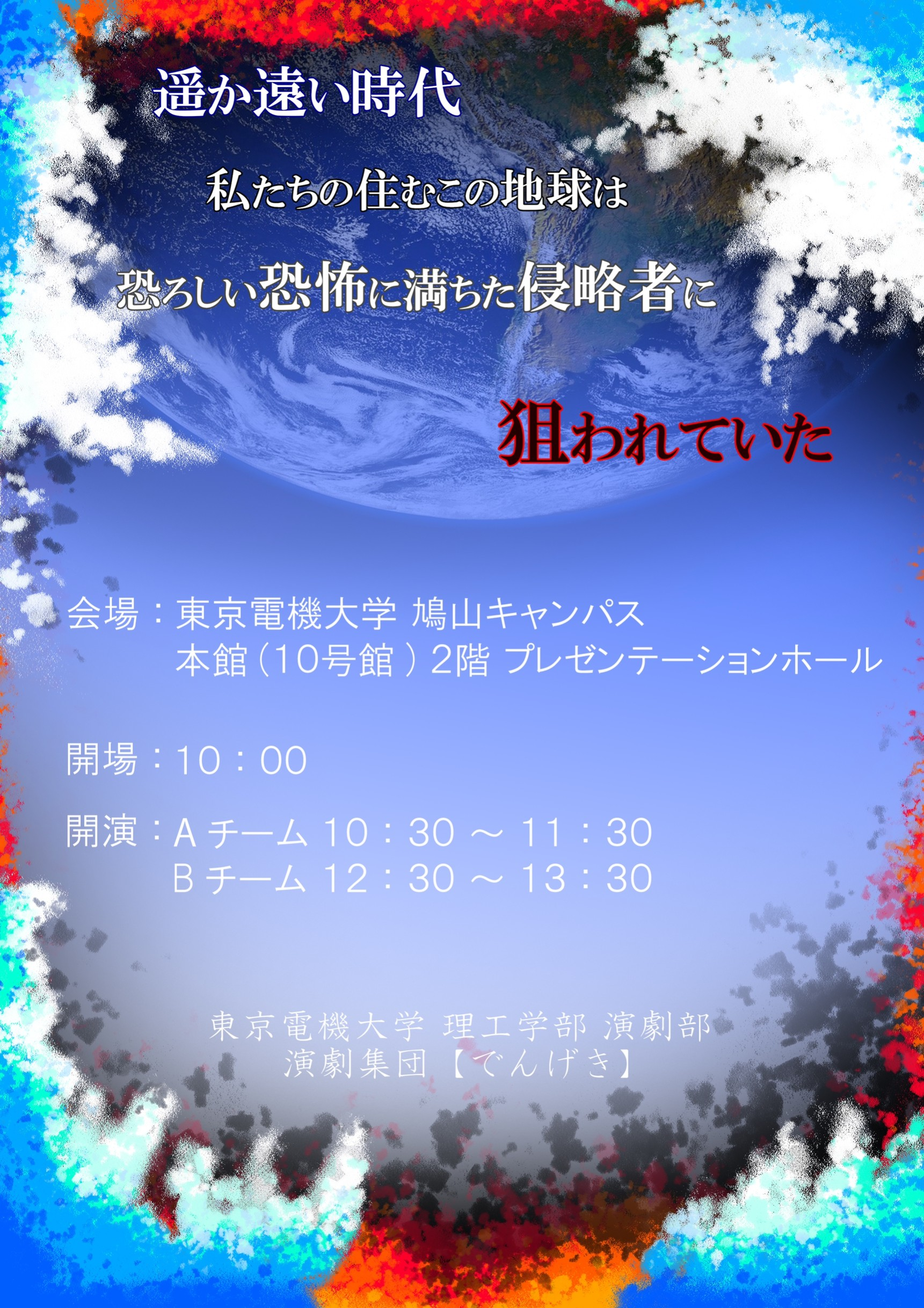
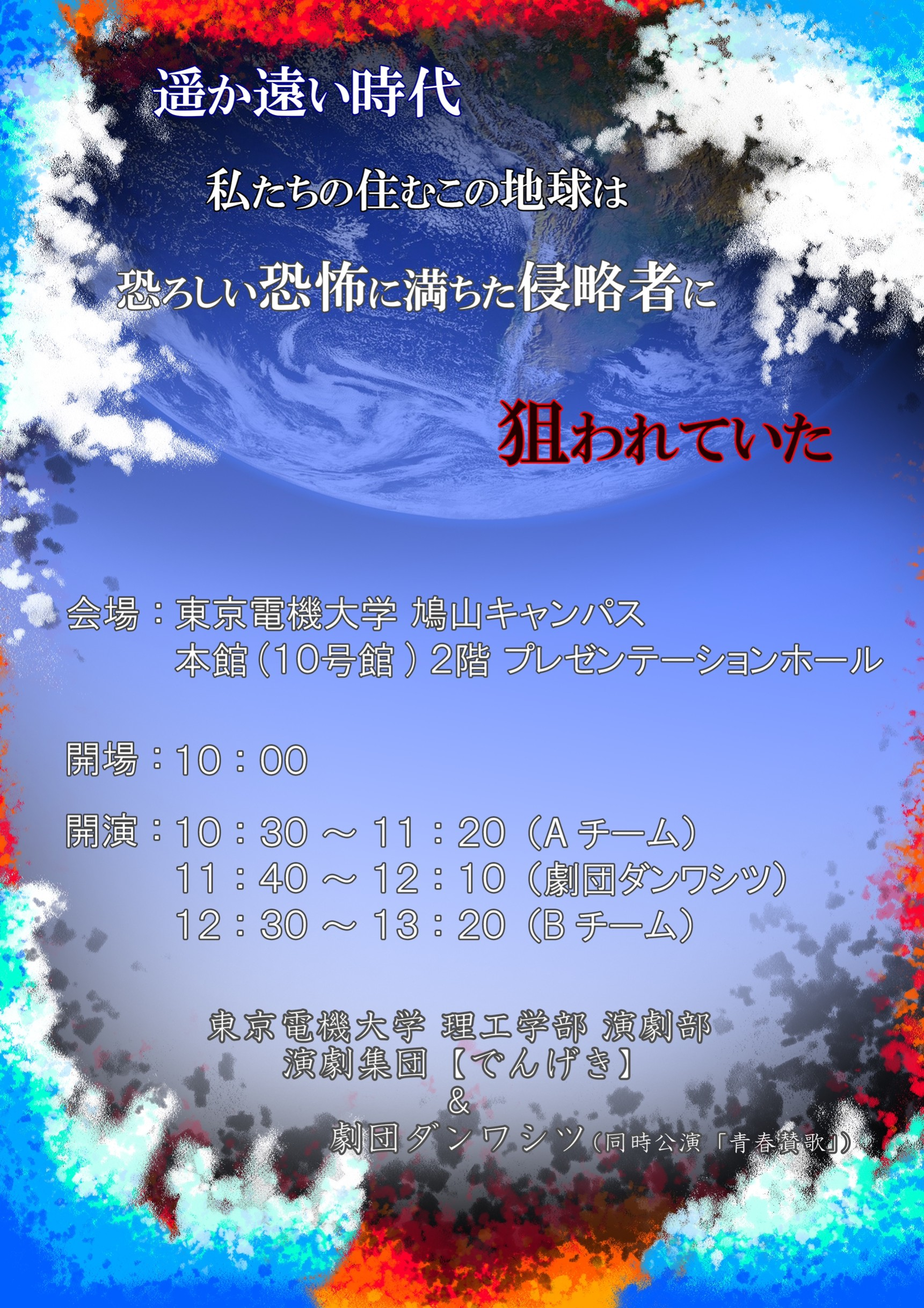
Add files via upload

diff --git a/article/kouen/2022/hatosai2022/hatosai2022.html b/article/kouen/2022/hatosai2022/hatosai2022.html
@@ -26,7 +26,7 @@
                     </h1>
                     <p class = "honbun">
                         演劇集団【でんげき】は、11/5(土)に行われる<strong>鳩山祭(1日目)</strong>にて公演を行います。<br>
-                        公演場所は、10号館2階の<strong>プレゼンテーションホール</strong>となっております。<br>
+                        公演場所は、10号館(本館)2階の<strong>プレゼンテーションホール</strong>となっております。<br>
                         今年度の鳩山祭は、2年ぶりに一般の方もご来場いただけます。<br>
                         ぜひ、足をお運びください。
                     </p>
@@ -34,18 +34,22 @@
                         演目：「侵略者」<br>
                         開場：10:00<br>
                         開演：Aチーム 10:30<br>
-                        　　　劇団「だんわしつ」 11:40<br>
                         　　　Bチーム 12:30<br>
                         公演時間は各チーム50分程度の予定です。<br>
-                        途中の入退場はご遠慮ください。<br>
-                        また、劇団「だんわしつ」の公演から、またはBチームの公演からのご観劇の場合、開演の20分前まではご入場いただけません。<br>
-                        ご了承ください。<br>
                         入れ替え制ではないので、最初から最後までご覧いただけます。<br>
                         ぜひご覧ください。<br>
-                        Aチーム、Bチームの公演の公演と合わせて、OB,OGによる公演も行われます。<br>
+                        Aチーム、Bチームの公演の公演と合わせて、11:40よりOB,OGによる公演も行われます。<br>
                         <a href="hatosai2022danwasitu.html">OB,OGによる公演の詳細はこちらから！</a><br>
                         そちらもぜひご覧ください。
                     </h3>
+                    <p>
+                        原則として、公演の間での入退場のみ可能です。<br>
+                        公演中の入退場はご遠慮ください。<br>
+                        また、劇団「だんわしつ」の公演から、またはBチームの公演からのご観劇の場合、開演の20分前まではご入場いただけません。<br>
+                        ご了承ください。<br>
+                        本公演では、役者のみマスクを着用しません。<br>
+                        新型コロナウイルス感染拡大防止の観点から、お越しいただいた方には、マスクの着用と、3列目以降への着席をお願いいたします。<br>
+                    </p>
                     <div class = "postor">
                         <img class = "tirashi" src="sinryakusha_omote.jpg" alt = "「侵略者」">
                         <img class = "tirashi" src="sinryakusha_ura.jpg" alt = "「侵略者」">

diff --git a/article/kouen/2022/hatosai2022/hatosai2022danwasitu.html b/article/kouen/2022/hatosai2022/hatosai2022danwasitu.html
@@ -31,14 +31,21 @@
                         ぜひ、足をお運びください。
                     </p>
                     <h3 class = "annai">
-                        演目：「青春賛歌」<br>
+                        演目：「青春讃歌」<br>
                         開場：11:20<br>
                         開演：11:40<br>
                         公演時間は30分程度の予定です。<br>
+                        <a href="http://twitter.com/engekidanwasitu">劇団『だんわしつ』のツイッターはこちら！</a><br>
                         また、前後に現役生による公演も行われます。<br>
                         そちらもぜひご覧ください。<br>
                         <a href="hatosai2022.html">現役生による公演の詳細はこちらから！</a><br>
                     </h3>
+                    <p>
+                        原則として、公演の間での入退場のみ可能です。<br>
+                        公演中の入退場はご遠慮ください。<br>
+                        本公演では、役者のみマスクを着用しません。<br>
+                        新型コロナウイルス感染拡大防止の観点から、お越しいただいた方には、マスクの着用と、3列目以降への着席をお願いいたします。<br>
+                    </p>
                     <div class = "postor">
                         <img class="tirashi" src="danwasitu-omote.jpg" alt="談話室">
                         <img class="tirashi" src="danwasitu-ura.jpg" alt="談話室">
